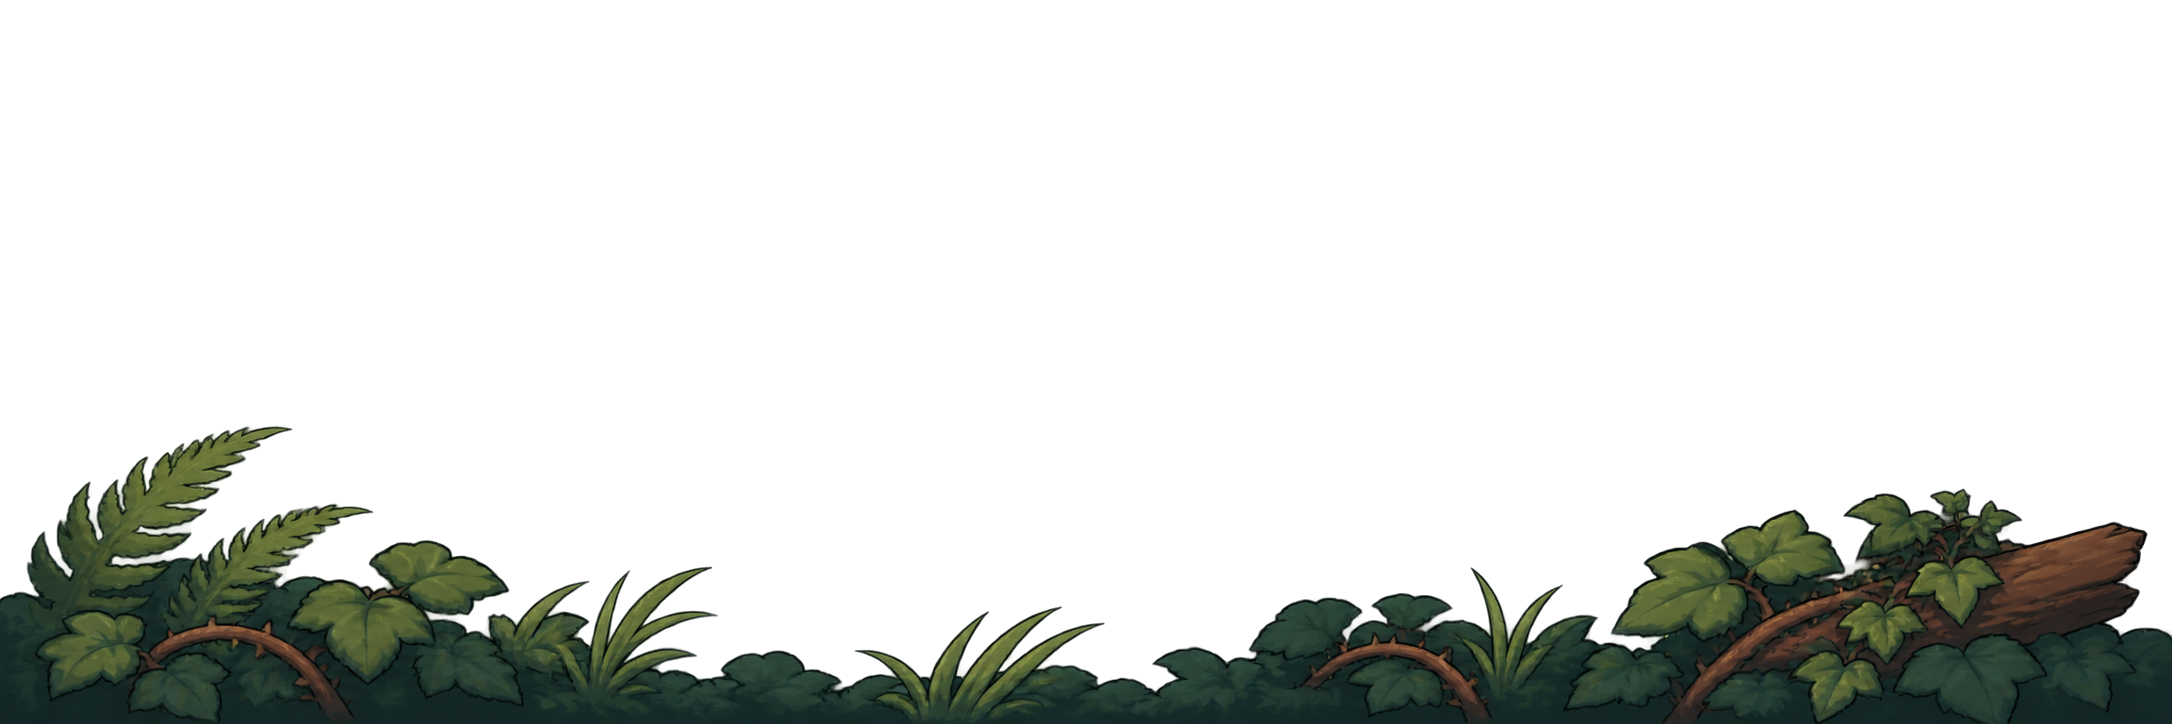
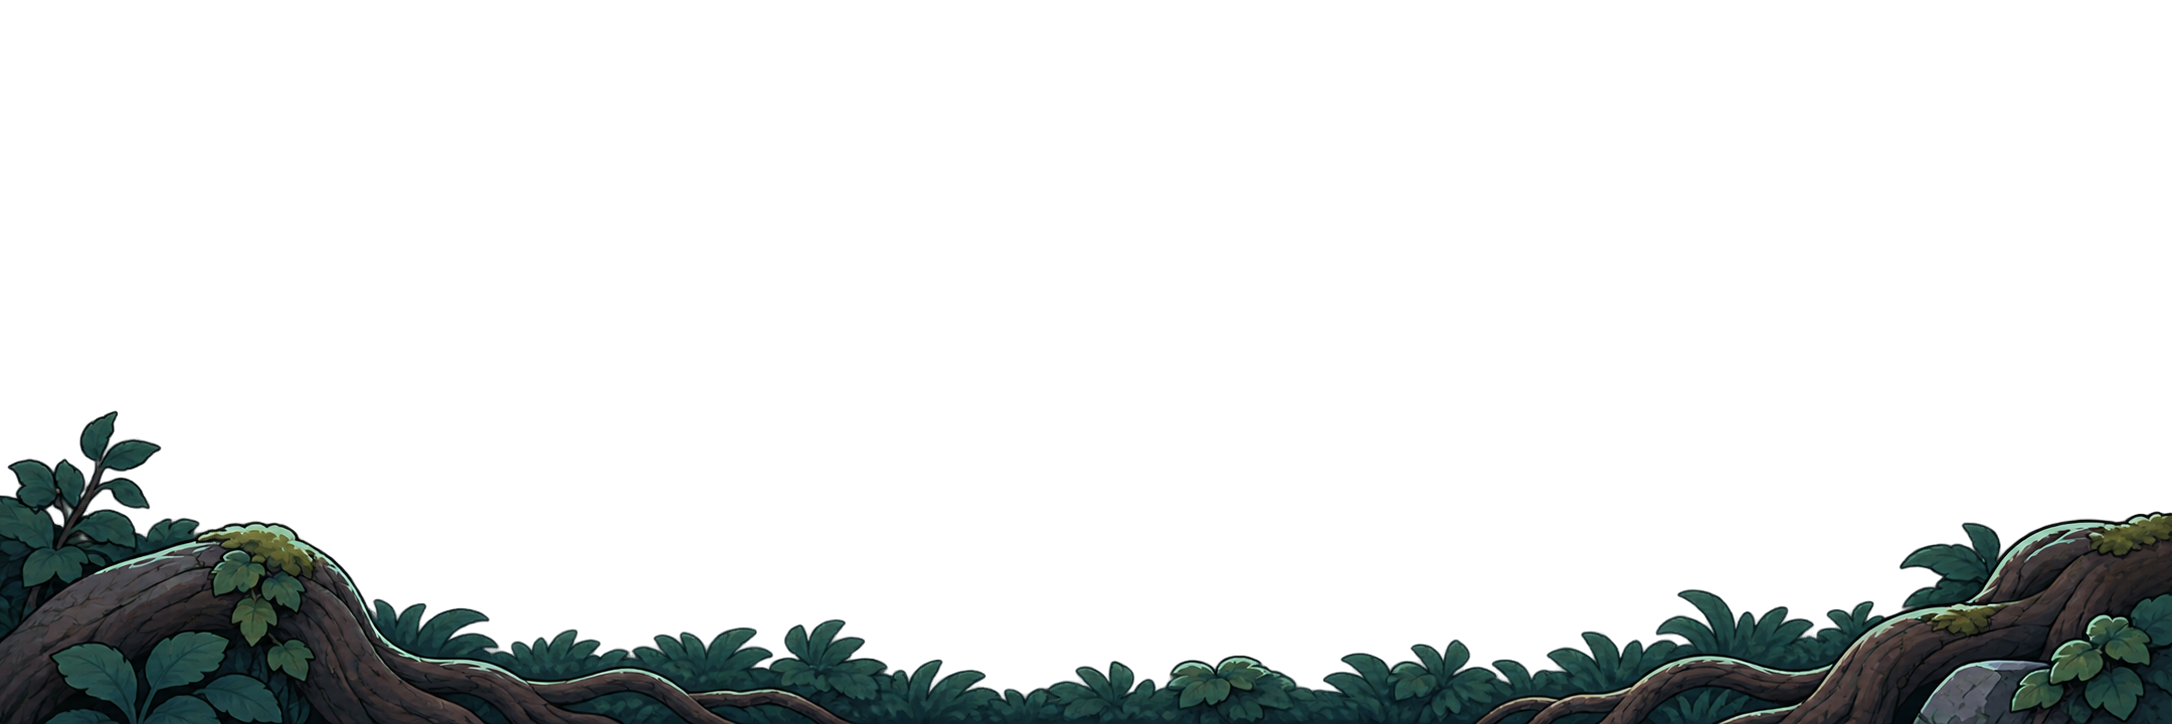
Replace the art set with the 39 supplied Emberclad sprites
Swap all four full-width layers for the new artwork: the twilight forest
backdrop, the arena ground texture, the pine canopy and the dark foliage
fringe. Each is cleaned (alpha snapped off 251-253/1-3 and edge colour bled
outward) and all four tile natively, so the mirrored tiling that caused
visible symmetry is gone.

Rebuild the atlas around 30 sprites cut from the individual images: four
trees, three columns, the ruin wall, campfire, three bushes, two ferns, three
grass tufts, two logs, stump, four rocks, mushrooms, bones, chest, the title
logo and the ember pips. Each is trimmed to its own bounds, given a base
pivot and sized by an explicit world footprint rather than inherited pixel
dimensions, so scale is deliberate instead of accidental.

Position the backdrop so its undergrowth line meets the floor's top edge, and
retune TileMid for the new 110 px-per-unit backdrop.

Character rigs are untouched: the fox and skeleton arrived as single finished
sprites while the knight, skeleton and companion are multi-part animated
rigs, so wiring them in needs a deliberate pass rather than a file swap.

Claude-Session: https://claude.ai/code/session_01HejqDV8hTh4DfG9Y5W1Mw9

Changed region(s): [[0.0, 0.5773, 1.0, 1.0]]

diff --git a/Assets/Scripts/World.cs b/Assets/Scripts/World.cs
@@ -57,7 +57,7 @@ public static class World
         return go.transform;
     }
 
-    public const float TileMid = 27.15f, TileCanopy = 12.63f, TileGround = 16.71f;
+    public const float TileMid = 19.745f, TileCanopy = 12.63f, TileGround = 16.71f;
     public const float FloorTop = -0.92f;
     const float BackMin = -1.28f, BackMax = -1.00f;
 
@@ -67,12 +67,12 @@ public static class World
         float len = MaxX + 14;
         var sky = Art.New("bg_sky", cam, new Vector3(0, 0, 10), -100, "Background");
         sky.transform.localScale = new Vector3(600, 4.2f, 1);
-        Layer(root, "bg_mid", 0.35f, 1.10f, -80, "Background", -TileMid, len * 0.68f + 2 * TileMid, true, TileMid, true);
+        Layer(root, "bg_mid", 0.35f, 1.34f, -80, "Background", -TileMid, len * 0.68f + 2 * TileMid, true, TileMid);
         var ground = new GameObject("Ground").transform; ground.SetParent(root, false);
         for (float x = -2 * TileGround; x < len + 2 * TileGround; x += TileGround) Art.New("ground", ground, new Vector3(x, FloorTop, 0), -60, "Background");
         var fringe = new GameObject("Fringe").transform; fringe.SetParent(root, false);
         for (float x = -2 * TileGround; x < len + 2 * TileGround; x += TileGround) Art.New("bg_ground", fringe, new Vector3(x, -0.55f, 0), 0, "Foreground");
-        Layer(root, "bg_canopy", 0.08f, 5.15f, -10, "Foreground", -TileCanopy, len * 0.95f + 2 * TileCanopy, true, TileCanopy, true);
+        Layer(root, "bg_canopy", 0.08f, 5.15f, -10, "Foreground", -TileCanopy, len * 0.95f + 2 * TileCanopy, true, TileCanopy);
         var vig = Art.New("fx_vignette", cam, new Vector3(0, 0, 9), 100, "Foreground");
         vig.transform.localScale = new Vector3(4.6f, 3.6f, 1);
         // --- light shafts ---
@@ -85,7 +85,7 @@ public static class World
             var pu = r.gameObject.AddComponent<Pulse>(); pu.baseColor = new Color(1, 0.95f, 0.75f, R(0.16f, 0.3f)); pu.speed = R(0.3f, 0.7f); pu.phase = R(0, 6.28f); pu.amount = 0.35f;
         }
         var back = new GameObject("BackRow").transform; back.SetParent(root, false);
-        string[] trunks = { "pr_trunk_a", "pr_trunk_b", "pr_trunk_c" };
+        string[] trunks = { "pr_trunk_a", "pr_trunk_b", "pr_trunk_c", "pr_trunk_d" };
         float[] grove = { -6f, 16f, 41f, 69f, 95f, 127f, 145f };
         foreach (var gx in grove)
         {
@@ -127,7 +127,7 @@ public static class World
                 float y = backBand ? R(-2.45f, -1.5f) : R(-3.85f, -3.25f);
                 double k = rng.NextDouble();
                 if (k < 0.44) Prop(lane, Chance(0.5f) ? "pr_grass_a" : (Chance(0.5f) ? "pr_grass_b" : "pr_grass_c"), x, y, R(0.8f, 1.15f), Chance(0.5f), 5f);
-                else if (k < 0.62) Prop(lane, Chance(0.4f) ? "pr_flower_w" : (Chance(0.5f) ? "pr_flower_y" : "pr_flower_p"), x, y, R(0.85f, 1.1f), Chance(0.5f), 6f);
+                else if (k < 0.62) Prop(lane, Chance(0.5f) ? "pr_rock_c" : "pr_rock_d", x, y, R(0.8f, 1.05f), Chance(0.5f), 6f);
                 else if (k < 0.74) Prop(lane, Chance(0.5f) ? "pr_fern_a" : "pr_fern_b", x, y, R(0.7f, 0.95f), Chance(0.5f), 3f);
                 else if (k < 0.82)
                 {
@@ -135,7 +135,8 @@ public static class World
                     var g = Art.New("fx_glow", m.transform, new Vector3(0, 0.25f, 0), m.sortingOrder + 1, "Default", true);
                     g.transform.localScale = Vector3.one * 1.3f; var pu = g.gameObject.AddComponent<Pulse>(); pu.baseColor = new Color(0.4f, 0.95f, 1f, 0.38f); pu.speed = R(1f, 2f); pu.phase = R(0, 6); pu.amount = 0.4f;
                 }
-                else if (k < 0.92) Prop(lane, "pr_rock_b", x, y, R(0.7f, 1f), Chance(0.5f));
+                else if (k < 0.89) Prop(lane, "pr_rock_b", x, y, R(0.7f, 1f), Chance(0.5f));
+                else if (k < 0.93) Prop(lane, "pr_chest", x, y, R(0.9f, 1.05f), Chance(0.5f));
                 else Prop(lane, "pr_bones", x, y, R(0.8f, 1f), Chance(0.5f));
             }
         }
